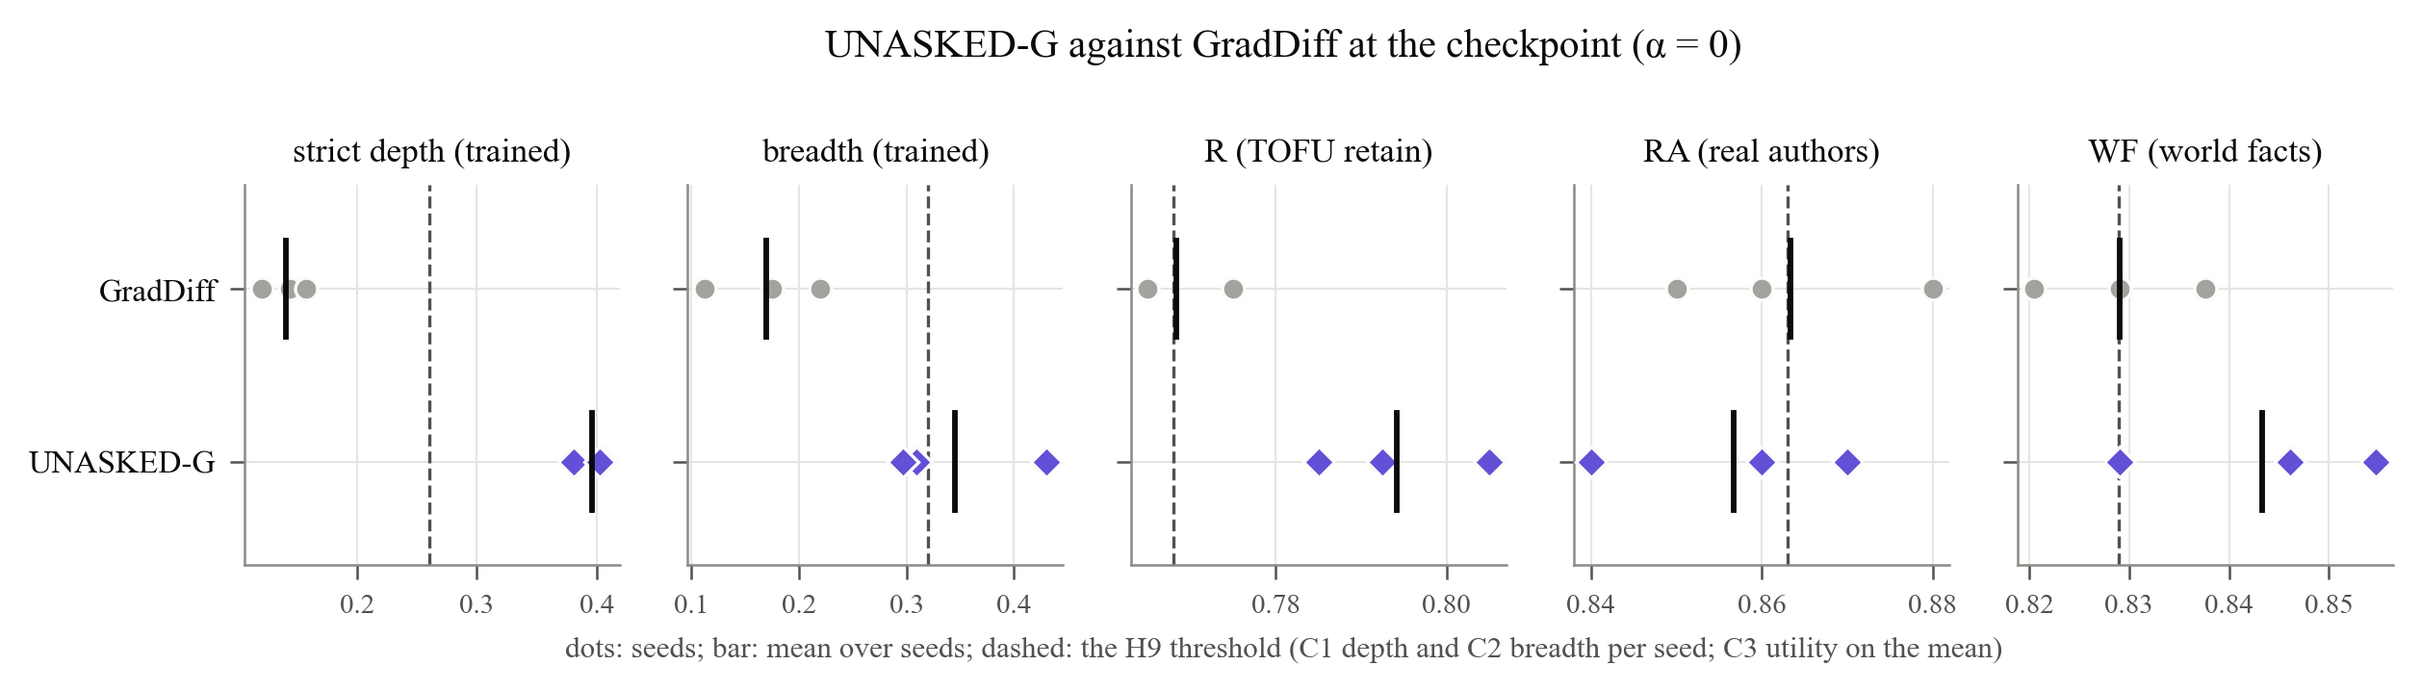
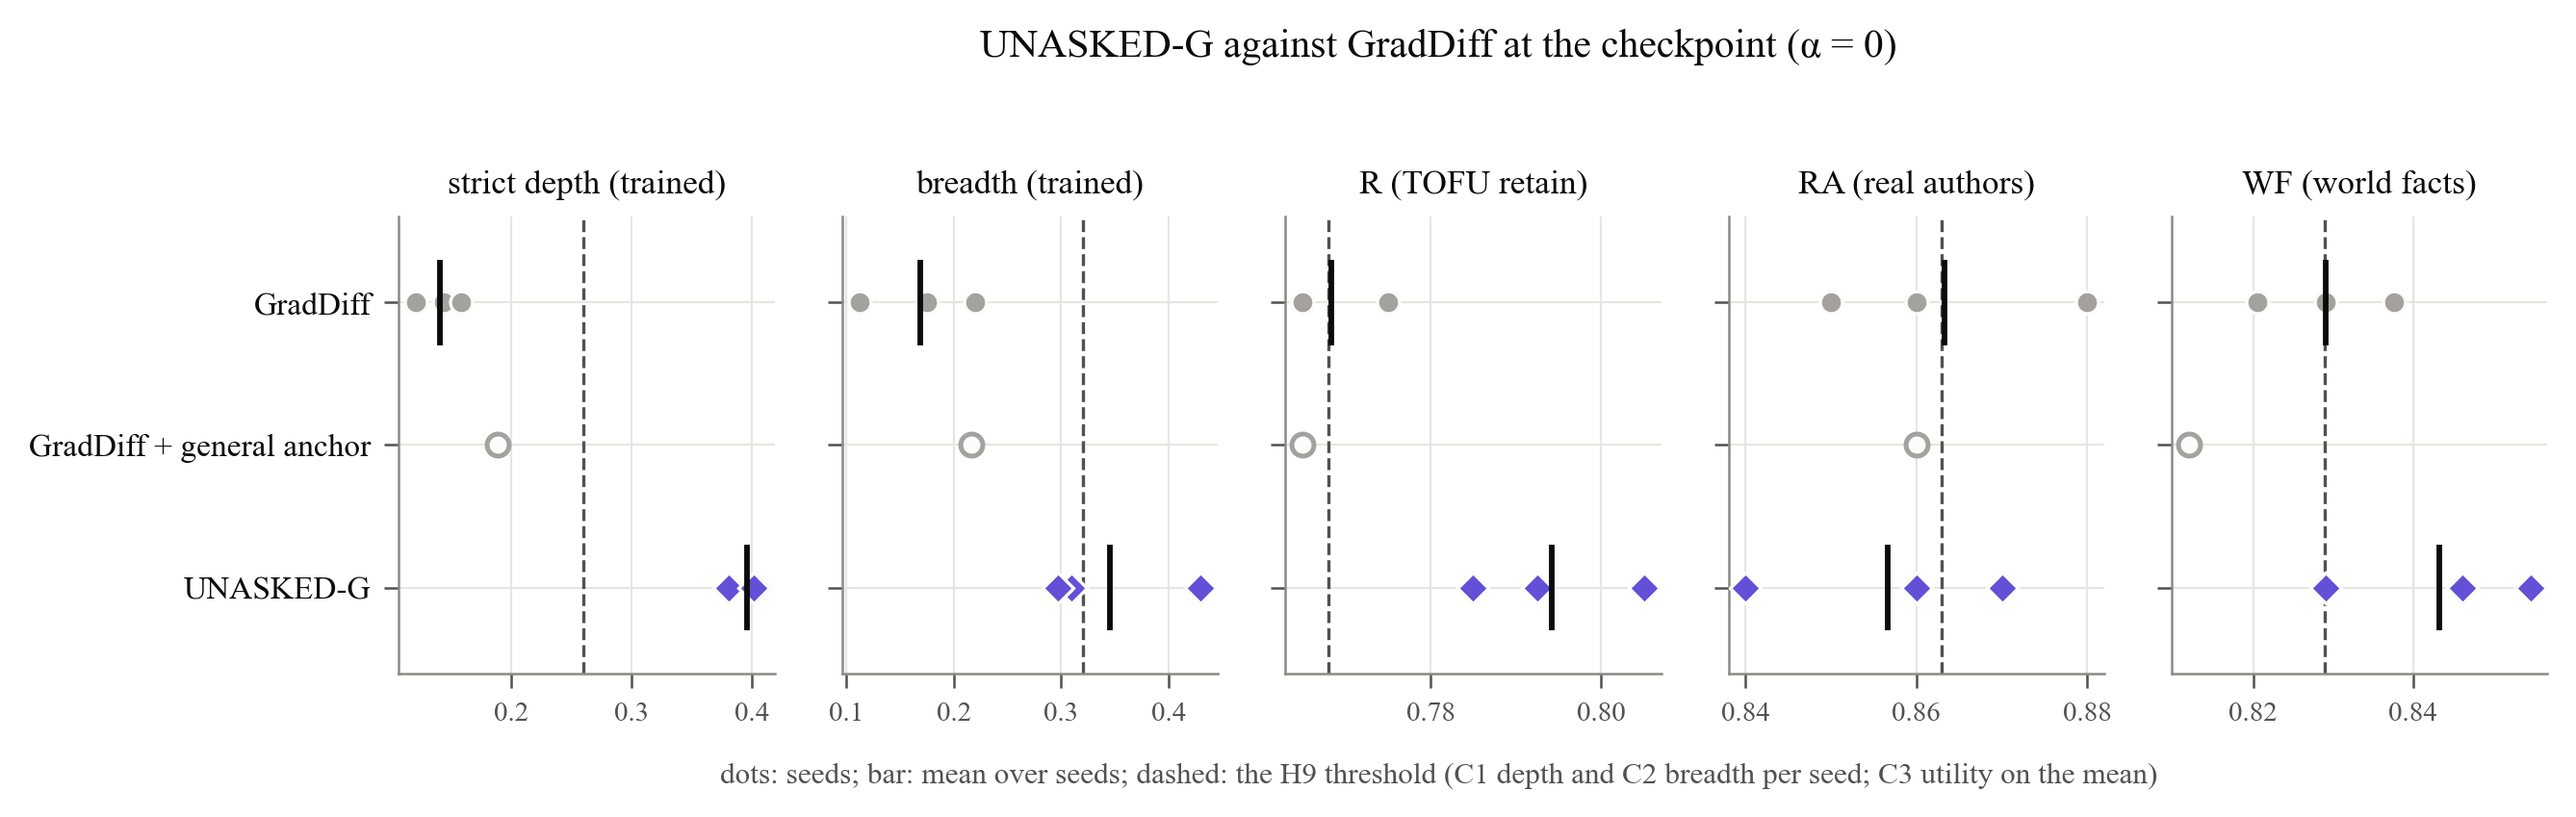
RESULTS 20.6: GradDiff with the same general anchor does not close the gap

diff --git a/RESULTS.md b/RESULTS.md
@@ -1759,9 +1759,33 @@ anchors as the run (λ = 3, λ_g = 1), on the H100 slice.
 
 C4 is met on seed 0. Seeds 1-2 are running.
 
+### 20.6 Fairness: GradDiff with the same general anchor (seed 0)
+
+UNASKED-G is the only method that received the general-knowledge data.
+GradDiff-G gives GradDiff the same anchor (method `graddiffg`): the same 400
+pairs, all 16 layers, the same scale, λ_g = 1, at GradDiff's own rate of 5e-8.
+It ran at commit `c19f0eb` (clean tree) and kept epoch 8. In
+every later epoch R fell below the floor, as for plain GradDiff.
+
+| Seed 0, at the checkpoint | Strict UDS, trained | Breadth, trained | Strict UDS, held-out | R | RA | WF |
+|---|---|---|---|---|---|---|
+| GradDiff | 0.144 | 0.175 | 0.053 | 0.775 | 0.880 | 0.821 |
+| GradDiff-G | 0.189 | 0.216 | 0.066 | 0.765 | 0.860 | 0.812 |
+| **UNASKED-G** | **0.405** | **0.309** | **0.259** | **0.805** | 0.840 | **0.829** |
+
+* **The general anchor barely helps GradDiff.** At equal general knowledge,
+  GradDiff-G exceeds GradDiff by only +0.02 breadth and +0.04 strict UDS (11
+  matched α).
+* **It does not close the gap.** At equal general knowledge, UNASKED-G exceeds
+  GradDiff-G by +0.22 breadth and +0.17 strict UDS (9 matched α). At equal R
+  the margins are +0.35 and +0.25 (2 matched α).
+* **So UNASKED-G's advantage is not the extra data.** GradDiff's update moves
+  R down to its floor by epoch 8 whether or not the anchor is there.
+  UNASKED-G's bounded target, together with its anchors, keeps R at its
+  starting level.
+
 **Still to come:**
 * C4: the R-matched controls of seeds 1-2;
-* GradDiff-G, GradDiff with the same general anchor (the fairness baseline);
 * a TOFU anchor of 10 (exploratory);
 * relearning dose-responses for UNASKED-G and GradDiff.
 

diff --git a/results/analysis/h9_report.md b/results/analysis/h9_report.md
@@ -6,6 +6,7 @@
 | study_v2_graddiff_1B_s0_lr5e-08 | – | 0 | 0.144 | 0.144 | 0.175 | 0.053 | 0.184 | – | 0.775 | 0.880 | 0.821 | – |
 | study_v2_graddiff_1B_s1_lr5e-08 | – | 1 | 0.120 | 0.121 | 0.220 | 0.056 | 0.119 | – | 0.765 | 0.860 | 0.829 | – |
 | study_v2_graddiff_1B_s2_lr5e-08 | – | 2 | 0.158 | 0.174 | 0.112 | 0.071 | 0.269 | – | 0.765 | 0.850 | 0.838 | – |
+| study_v2_graddiffg_1B_s0_lr5e-08 | 1 | 0 | 0.189 | 0.189 | 0.216 | 0.066 | 0.214 | 0.173 | 0.765 | 0.860 | 0.812 | – |
 
 **lr3e-06 (λ_g = 1), all seeds ([0, 1, 2]):** C1 depth met (mean 0.396); C2 breadth not met (mean 0.345); C3 utility not met (R 0.794, RA 0.857, WF 0.843); C4 beyond damage no data
 
